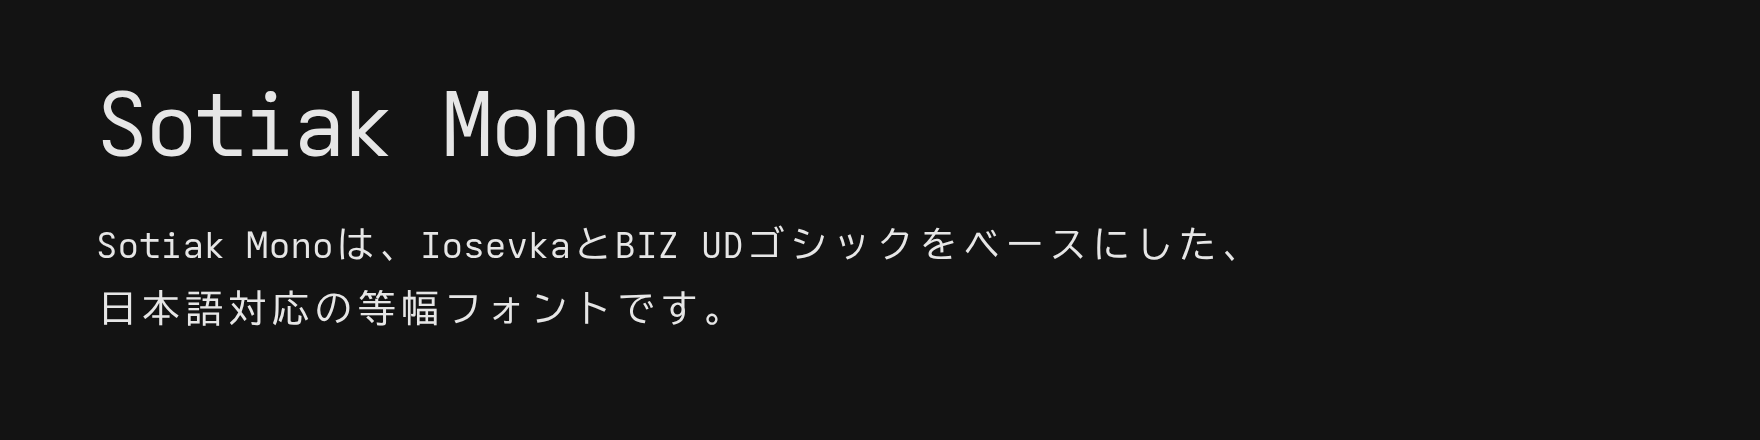
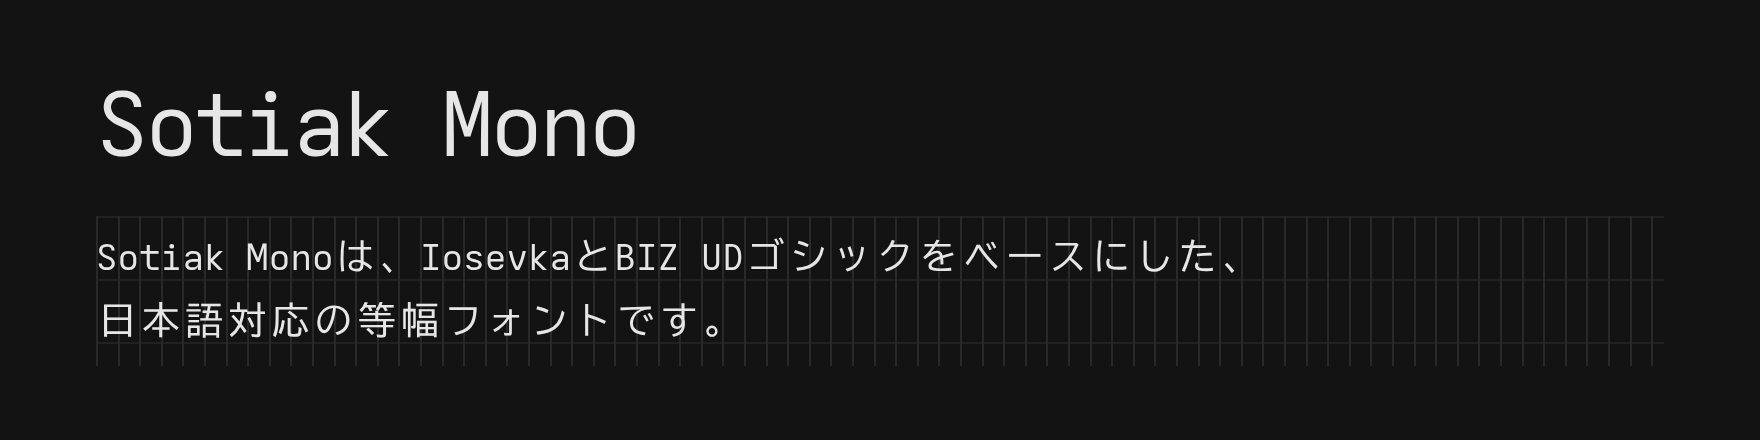
Move the grid to the hero statement

Changed region(s): [[0.0625, 0.5023, 0.6875, 0.6205], [0.0625, 0.65, 0.4062, 0.7682]]

diff --git a/site/style.css b/site/style.css
@@ -147,28 +147,16 @@ section h2 {
 h3 { font-size: 14px; font-weight: 400; }
 .caption, small, dt { color: var(--muted); font-size: 11px; }
 .caption { margin-bottom: 20px; line-height: 1.6; }
-.lead { margin-bottom: 12px; font-size: 18px; line-height: 1.75; }
-.italic { font-style: italic; }
-.cell-sample {
-  width: max-content;
-  max-width: 100%;
-  padding: 4px 0;
-  font-size: clamp(24px, 4vw, 38px);
-  line-height: 1.7;
+.lead {
+  margin-bottom: 12px;
+  padding: 6px 0;
+  font-size: 18px;
+  line-height: 1.75;
   background:
     repeating-linear-gradient(to right, var(--line) 0 1px, transparent 1px 1ch),
-    repeating-linear-gradient(to bottom, var(--grid) 0 1px, transparent 1px 1.7em);
+    repeating-linear-gradient(to bottom, var(--grid) 0 1px, transparent 1px 1.75em);
 }
-.metrics {
-  display: grid;
-  grid-template-columns: repeat(4, 1fr);
-  margin: 24px 0 0;
-  border: 1px solid var(--line);
-}
-.metrics div { padding: 10px 12px; border-right: 1px solid var(--line); }
-.metrics div:last-child { border-right: 0; }
-.metrics dt { font-size: 10px; letter-spacing: .06em; }
-.metrics dd { margin: 2px 0 0; font-size: 18px; }
+.italic { font-style: italic; }
 .compare-stage { border: 1px solid var(--line); overflow: hidden; }
 .compare-labels {
   display: flex;
@@ -426,7 +414,7 @@ input[type="checkbox"]:checked { background: var(--ink); box-shadow: inset 0 0 0
 .character-group[data-width="1"] { --char-width: 1; }
 #characters[data-weight="bold"] .characters { font-weight: 700; }
 footer { padding: 32px 0; color: var(--muted); font-size: 11px; }
-html[data-italic] :is(.cell-sample, .feature .live, .static-pair p, .characters) { font-style: italic; }
+html[data-italic] :is(.feature .live, .static-pair p, .characters) { font-style: italic; }
 @media screen and (max-width: 860px) {
   header { flex-wrap: wrap; padding: 0 20px; }
   header > a { padding: 12px 0; }
@@ -441,9 +429,6 @@ html[data-italic] :is(.cell-sample, .feature .live, .static-pair p, .characters)
   aside details { position: static; }
   aside nav { grid-template-columns: 1fr 1fr; }
   aside a { padding-right: 8px; }
-  .metrics { grid-template-columns: 1fr 1fr; }
-  .metrics div:nth-child(2n) { border-right: 0; }
-  .metrics div:nth-child(-n+2) { border-bottom: 1px solid var(--line); }
   .design-grid { grid-template-columns: 1fr; }
   .design-card { border-right: 0; border-bottom: 1px solid var(--line); }
   .design-card:last-child { border-bottom: 0; }
@@ -456,15 +441,12 @@ html[data-poster] body { width: 880px; }
 html[data-poster] header, html[data-poster] aside, html[data-poster] .web-only, html[data-poster] .skip { display: none; }
 html[data-poster] .layout { display: block; width: 880px; max-width: none; padding: 40px 48px; }
 html[data-poster] [data-sheet] { display: none; }
-html[data-poster="hero"] [data-sheet="hero"], html[data-poster="grid"] [data-sheet="grid"], html[data-poster="design"] [data-sheet="design"], html[data-poster="features"] [data-sheet="features"] { display: block; }
+html[data-poster="hero"] [data-sheet="hero"], html[data-poster="design"] [data-sheet="design"], html[data-poster="features"] [data-sheet="features"] { display: block; }
 html[data-poster] section { padding: 0; border: 0; }
 html[data-poster] h1 { font-size: 44px; }
 html[data-poster] .hero h1 { margin: 0 0 20px; }
 html[data-poster] .hero .lead { margin-bottom: 12px; }
 html[data-poster] h2 { font-size: 24px; margin-bottom: 12px; }
-html[data-poster] .cell-sample { font-size: 30px; line-height: 1.35; }
-html[data-poster] .metrics { margin-top: 16px; }
-html[data-poster] .metrics dd { font-size: 17px; }
 html[data-poster] #compare { display: none; }
 html[data-poster] .align-card { padding: 7px 12px 6px; }
 html[data-poster] .align-card .plan-frame { height: 100px; }

diff --git a/site/index.html b/site/index.html
@@ -33,7 +33,7 @@
     <summary>目次</summary>
     <nav aria-label="目次">
       <a href="#overview">概要</a>
-      <a href="#grid">グリッド</a><a href="#compare">比較</a>
+      <a href="#compare">比較</a>
       <a href="#design">設計</a><a href="#opentype">OpenType</a>
       <a href="#characters">文字</a><a href="#download">ダウンロード</a>
     </nav>
@@ -44,13 +44,7 @@
     <h1>Sotiak Mono</h1>
     <p class="lead">Sotiak Monoは、IosevkaとBIZ UDゴシックをベースにした、<br>日本語対応の等幅フォントです。</p>
   </section>
-  <div data-sheet="grid" class="print-page">
-    <section id="grid">
-      <h2>グリッド</h2>
-      <div class="cell-sample" aria-label="半角2文字と全角1文字の幅は同じ">AB日本12語<br>01あいABう</div>
-      <dl class="metrics"><div><dt>半角</dt><dd>{{half}} units</dd></div><div><dt>全角</dt><dd>{{full}} units</dd></div><div><dt>UPM</dt><dd>{{upm}}</dd></div><div><dt>幅の比率</dt><dd>1 : 2</dd></div></dl>
-    </section>
-    <section id="compare">
+  <section id="compare">
       <h2>比較</h2>
       <p class="caption">同じサイズ・同じ文字列で、Iosevka SS03 / JetBrains Mono / Consolas と比較。<span class="web-only">中央のバーをドラッグ、右のメニューで比較対象を切り替え。</span></p>
       <div class="compare-stage" data-target="iosevka" style="--split: .5">
@@ -79,8 +73,7 @@
   val ok = s.length > 8
   if (ok) print(s) else println(s)
 }</pre>
-    </section>
-  </div>
+  </section>
   <section id="design" data-sheet="design" class="print-page">
     <h2>設計</h2>
     <p class="caption">字形の細部。輪郭とメトリクスはビルド済みフォントから取得。</p>

diff --git a/src/mono/site.py b/src/mono/site.py
@@ -178,9 +178,6 @@ def build_site():
             )
         values = {
             "version": project_version(),
-            "half": str(font["hmtx"][cmap[ord("A")]][0]),
-            "full": str(font["hmtx"][cmap[ord("日")]][0]),
-            "upm": str(font["head"].unitsPerEm),
             "design": render_design(font, italic),
             "alignment": render_alignment(font, italic),
             "characters": "\n".join(groups),

diff --git a/src/mono/screenshots.py b/src/mono/screenshots.py
@@ -5,7 +5,7 @@ import shutil
 from mono.paths import IMAGES
 from mono.site import SITE
 
-SHEETS = {"hero": 220, "grid": 300, "design": 560, "features": 600}
+SHEETS = {"hero": 220, "design": 560, "features": 600}
 
 
 def render():
